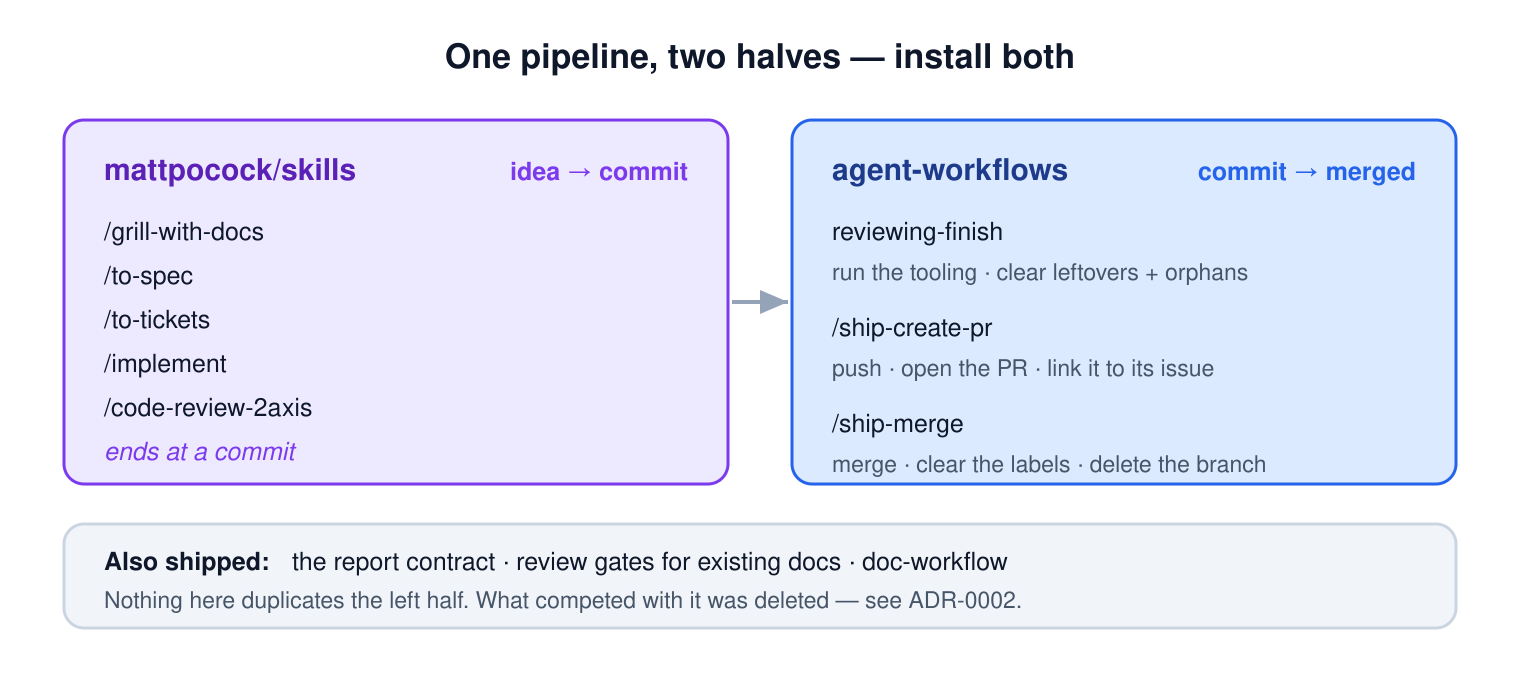
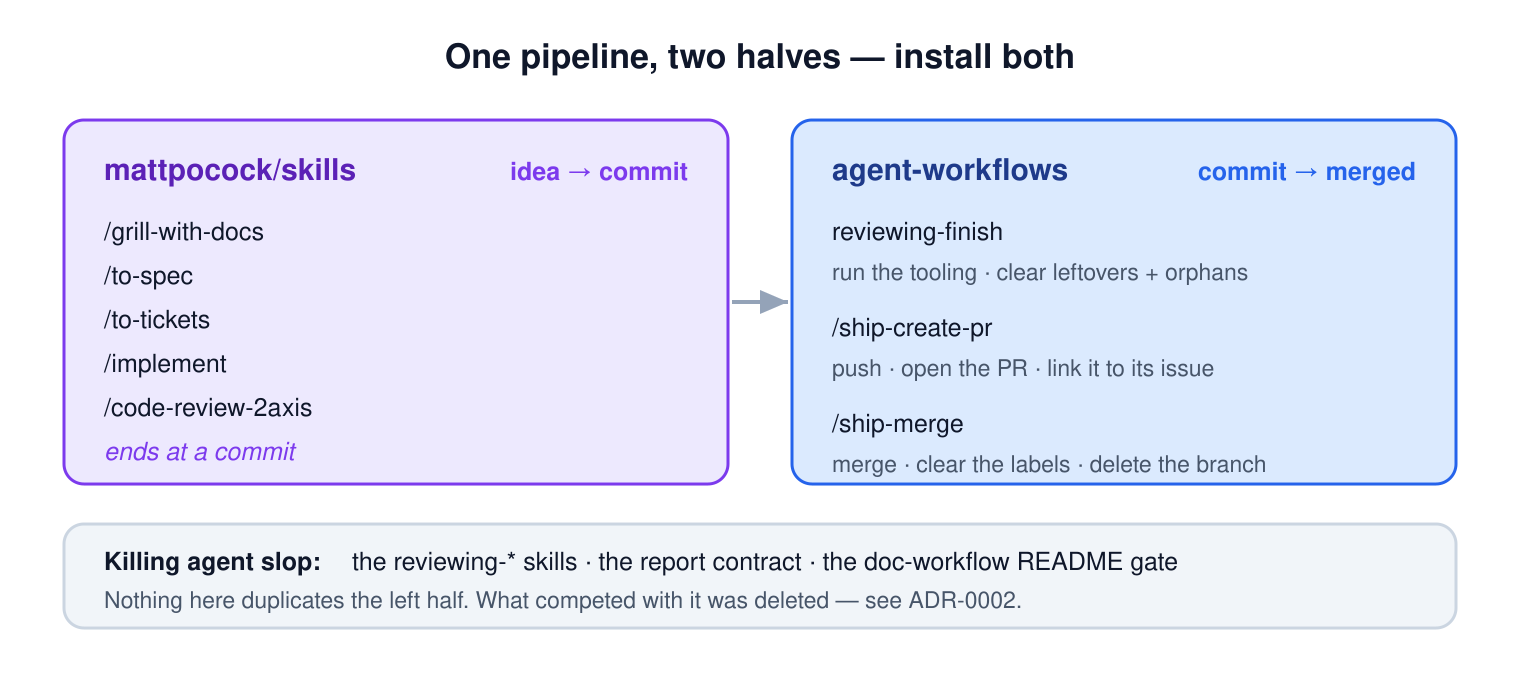
docs(#129,#130): prune the profile to what units read, lead the README with the two jobs
The profile asked adopters to declare values nothing consumes. The pipeline
deletion (#126) and the QA half's departure (#128) orphaned the story values;
nothing in plugins/agent-workflows/ resolves them any more.

Removed: the Paths section, the ID schemes section, and the story
back-reference. `diagrams dir` survives under Docs & diagrams, where it was
already declared — dropping the duplicate takes a value that had to be kept in
sync out of the file. Seven sections remain, each verified against a citing
unit.

The README opened on what the plugin contains rather than what it is for.
It now leads with the two jobs — killing agent slop, and convenience at the
seam between a commit and a merge — so a reader knows within a paragraph why
both plugins are installed. The hero diagram carried only the second job; its
footer bar is now the first, rather than an "Also shipped" afterthought.

Skills became a table, so the list is verifiably the five that ship. The
adoption bullets follow the pruned profile, and gain the Review semantics
values three skills resolve and no bullet named.

Fixes #129
Fixes #130

Claude-Session: https://claude.ai/code/session_01KWLsN1htNj4B55WoYnBGnb

Changed region(s): [[0.0618, 0.8029, 0.773, 0.8647]]

diff --git a/README.md b/README.md
@@ -1,10 +1,10 @@
 # agent-workflows
 
-**The layer wrapped around [`mattpocock/skills`](https://github.com/mattpocock/skills).** His set carries an idea to a commit — `/grill-with-docs`, `/to-spec`, `/to-tickets`, `/implement`, `/code-review-2axis` — and stops there. This plugin carries it the rest of the way, and adds the checks his diff-reading review cannot make.
+**The layer wrapped around [`mattpocock/skills`](https://github.com/mattpocock/skills).** His set carries an idea to a commit — `/grill-with-docs`, `/to-spec`, `/to-tickets`, `/implement`, `/code-review-2axis` — and stops there. This plugin does the two things his set leaves undone: it kills the slop in what the agent writes, and it carries a commit the rest of the way to merged.
 
 These two are **complements, not alternatives**. Install both.
 
-![The pipeline: mattpocock/skills carries idea to commit; agent-workflows carries commit to merged](docs/diagrams/png/01-the-complement.png)
+![One pipeline, two halves: mattpocock/skills carries idea to commit; agent-workflows carries commit to merged, and kills agent slop with the reviewing-* skills, the report contract, and the doc-workflow README gate](docs/diagrams/png/01-the-complement.png)
 
 ## Contents
 
@@ -19,15 +19,13 @@ These two are **complements, not alternatives**. Install both.
 
 ## What this adds
 
-Four things his set does not reach.
+**Killing agent slop.** An agent writes prose that is fluent, shaped like the real thing, and carrying less than it appears to. His set generates documents; none of his skills judges one that already exists. The `reviewing-*` skills do — the words of a doc, its look, the commands and rules an agent reads, and the debris a committed change left in the codebase. `doc-gen-readme` / `doc-review-readme` are a README author and its accuracy gate — the gate leans on those same skills, then checks the claims against the code.
 
-**The ship tail.** `/implement` ends at *"commit your work to the current branch"* — nothing pushes, opens a change request, or merges. `ship-create-pr` pushes and opens the PR already linked to its issue; `ship-merge` merges, clears the labels, deletes the branch, and puts you back on the default branch. `/triage` applies a `ready-for-agent` state and nothing upstream ever clears it — the merge step is that label's only exit.
+The same discipline covers what the agent says back to you. A reply that blends what was done, what is suspected, what was skipped on purpose and what is still uncertain into one paragraph is unreadable at exactly the moment it matters. `rules/agent-report.md` keeps those parts distinct — bound from your project's `CLAUDE.md`, so it holds even when the agent is the one producing the mess.
 
-**The finish review.** `/code-review-2axis` reads the diff. It cannot run your build, and it does not look for the debris a change leaves behind. `reviewing-finish` runs the project's own tooling, sweeps the debug prints and commented-out blocks and stray TODOs, and removes the imports and files *your* change orphaned. It runs **after** the two-axis review, never instead of it.
+**Convenience at the seam** — the stretch between a commit and a merge. His chain stops just short of it: `/implement` ends at *"commit your work to the current branch"*, nothing pushes or opens a change request, no feature branch was ever cut, and `/triage` leaves a `ready-for-agent` state nothing upstream clears. `ship-create-pr` moves those commits onto a branch if they landed on the default, pushes, and opens the PR linked to its issue. `ship-merge` merges, clears both labels — that triage state included — deletes the branch, and puts you back on the default. Each stops for a human rather than running on into the next.
 
-**The report contract.** A reply that blends what was done, what is suspected, what was skipped on purpose and what is still uncertain into one paragraph is unreadable at exactly the moment it matters. `rules/agent-report.md` keeps those parts distinct — bound from your project's `CLAUDE.md`, so it holds even when the agent is the one producing the mess.
-
-**Review gates for existing documents.** His writing skills generate prose; none of them judges a document that already exists. `reviewing-phrasing`, `reviewing-typography`, and `reviewing-artifacts` do — and `doc-gen-readme` / `doc-review-readme` are a README author and its accuracy gate.
+`reviewing-finish` spans both jobs. `/code-review-2axis` reads the diff but cannot run your build; this runs the project's own tooling, so "verified" means observed rather than asserted, and it removes the imports and files *your* change orphaned. Run it **after** the two-axis review, never instead of it.
 
 Looking for the QA half — planning what to test, writing the test docs, binding them to what runs? That lives in [`agent-workflows-runner`](https://github.com/dogkeeper886/agent-workflows-runner), which owns authoring and execution together.
 
@@ -59,11 +57,12 @@ mkdir -p .claude/rules && curl -o .claude/rules/project-profile.md \
 
 Then edit it. What it declares:
 
-- where stories and diagrams live, and how they're numbered
 - label names — including the triage state `ship-merge` clears
 - the branch-name pattern, the closure keyword, and the merge strategy
 - the change-request noun your host uses — `PR` or `MR`
-- the verdict words a review reports in
+- where diagrams live, and where the README is written
+- the verdict words and section names a review reports in
+- what a review judges against — your canonical format, your audience, the tools you actually use
 
 Everything a command would otherwise hardcode resolves from this file — you adapt the workflow here, never the units. The shipped values reproduce this repo's own behaviour, so changing nothing is safe.
 
@@ -101,13 +100,21 @@ All of them live in [`plugins/agent-workflows/commands/`](plugins/agent-workflow
 
 Shipped in the plugin alongside the commands. All are invoked by hand.
 
-**`reviewing-finish`** is the pass after `/code-review-2axis`: it runs the project's tooling so "verified" means observed, sweeps leftovers, removes the orphans your change created, and ends in a verdict that routes somewhere.
+| Skill | What it's aimed at |
+|-------|--------------------|
+| `reviewing-phrasing` | the words of a human-read doc |
+| `reviewing-typography` | its look — hierarchy, grouping, emphasis, density |
+| `reviewing-artifacts` | agent-read tooling — commands, skills, rules, `CLAUDE.md` |
+| `reviewing-finish` | a committed change, before it becomes a change request |
+| `reporting-outcomes` | the reply an agent writes when it reports back in chat |
 
-**The review skills (`reviewing-*`)** judge finished work by judgment, not a scored checklist — a minimum bar, not an exhaustive one.
+`reviewing-phrasing`, `reviewing-typography` and `reviewing-artifacts` route by **who reads the file you changed**:
 
 ![Review skills: human-read docs go to reviewing-phrasing (words) + reviewing-typography (look); agent-read tooling goes to reviewing-artifacts](docs/diagrams/png/07-review-skills.png)
 
-**`reporting-outcomes`** shapes the reply an agent writes when it reports back in chat — the turn carrying progress, a verdict, reasons and a status at once. `agent-report.md` binds what a *command* prints at a gate; this puts the same shape on the conversational report-back.
+The `reviewing-*` skills judge finished work rather than score it — a minimum bar, not an exhaustive checklist — and each ends in a verdict that routes somewhere.
+
+`reporting-outcomes` is the odd one out: it shapes a chat turn rather than a file. `agent-report.md` binds what a *command* prints at a gate; this puts the same shape on the conversational report-back.
 
 ## Project structure
 

diff --git a/.claude/rules/project-profile.md b/.claude/rules/project-profile.md
@@ -13,16 +13,6 @@ project skill, and what happens when a value cannot be resolved — is
 the plugin's `rules/profile-doctrine.md`, which ships with the units. That file is the
 same in every project; this one is not.
 
-## Paths
-
-- stories dir: `docs/stories/`
-- diagrams dir: `docs/diagrams/` (SVG source) + `docs/diagrams/png/` (rendered)
-- story format contract: `docs/stories/README.md`
-
-## ID schemes
-
-- story id: `STORY-XXX` (zero-padded sequential, e.g. `STORY-001`)
-
 ## Labels
 
 Names the workflow uses; colours where the workflow pins one (`#hex`), otherwise the
@@ -40,7 +30,6 @@ plugin's `rules/ship-tail.md`.
 
 ## Linking & branch
 
-- story back-reference (in titles/bodies): `[STORY-XXX]`
 - issue closure (PR → issue): `Fixes #N` / `Closes #N`
 - feature branch name: `issue-<N>-<slug>`
 
@@ -72,7 +61,7 @@ silently.
 
 - README output: `README.md`
 - diagram policy: SVG source committed + rendered to PNG (no Mermaid / inline diagram blocks)
-- diagrams dir: `docs/diagrams/` (SVG source) + `docs/diagrams/png/` (rendered) — also under Paths
+- diagrams dir: `docs/diagrams/` (SVG source) + `docs/diagrams/png/` (rendered)
 
 ## Reports
 

diff --git a/CONTEXT.md b/CONTEXT.md
@@ -24,9 +24,9 @@ against it. Identical in every project, so it ships with the units.
 _Avoid_: preamble, header
 
 **Profile values**:
-The half of `project-profile.md` that declares one project's specifics — paths, ID
-schemes, labels, branch conventions, report vocabulary. Different in every project, so it
-stays in the repo.
+The half of `project-profile.md` that declares one project's specifics — labels, branch
+conventions, platform verbs, doc paths, report vocabulary. Different in every project, so
+it stays in the repo.
 _Avoid_: config, settings, options
 
 **Placement**:

diff --git a/docs/stories/README.md b/docs/stories/README.md
@@ -22,7 +22,7 @@ docs/stories/
   STORY-002.md
 ```
 
-- File + id follow the project's `STORY-XXX` convention — `STORY-NNN.md`, no slug (see `.claude/rules/project-profile.md`).
+- File + id follow the `STORY-XXX` convention — `STORY-NNN.md`, no slug.
 - A story is **plain markdown — no front-matter.** It opens with `# STORY-NNN: <Title>`.
 
 ## Sections
